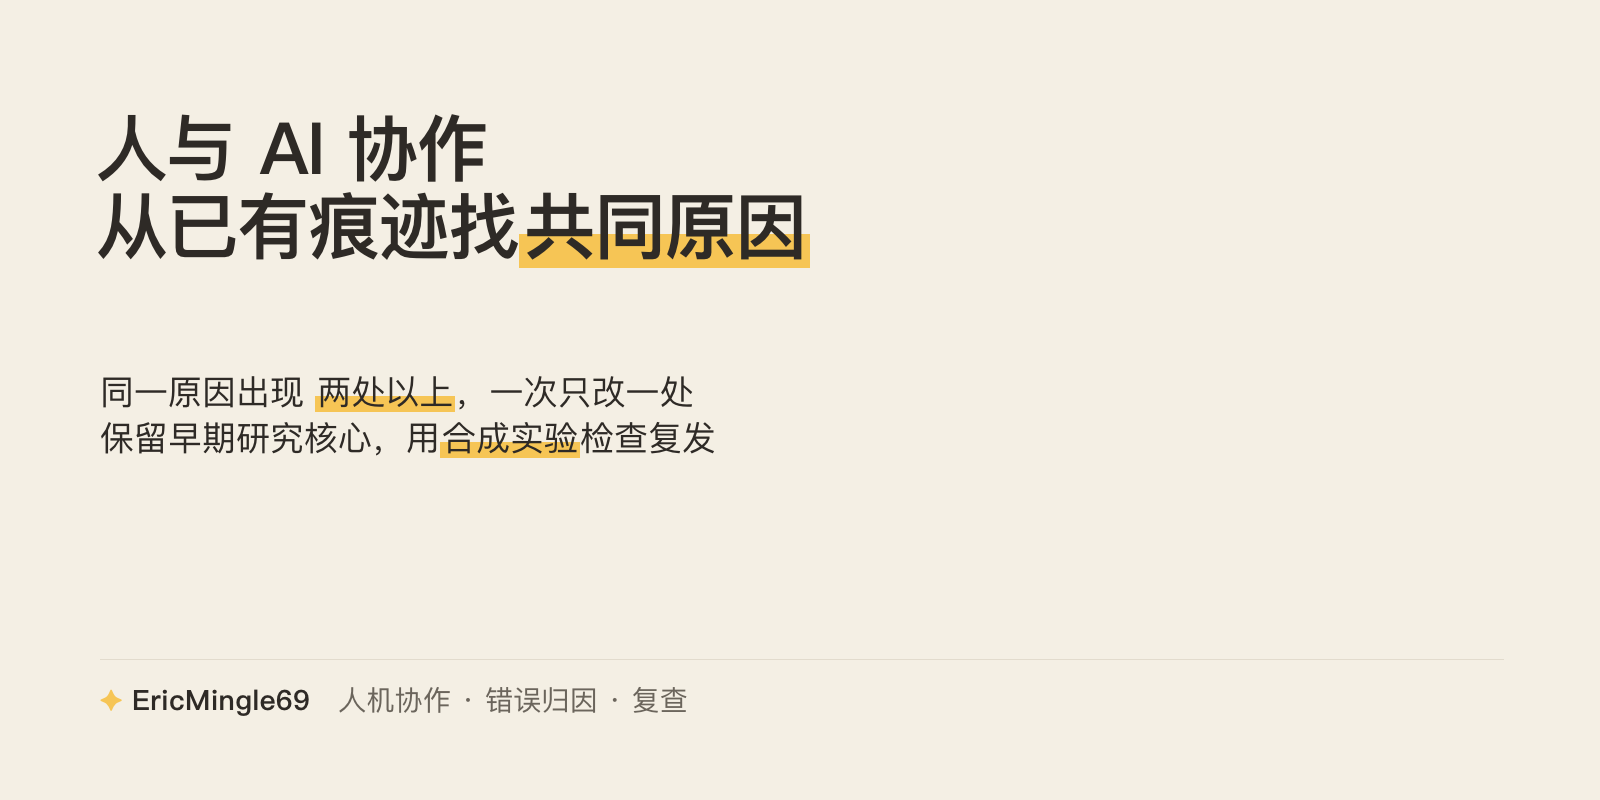
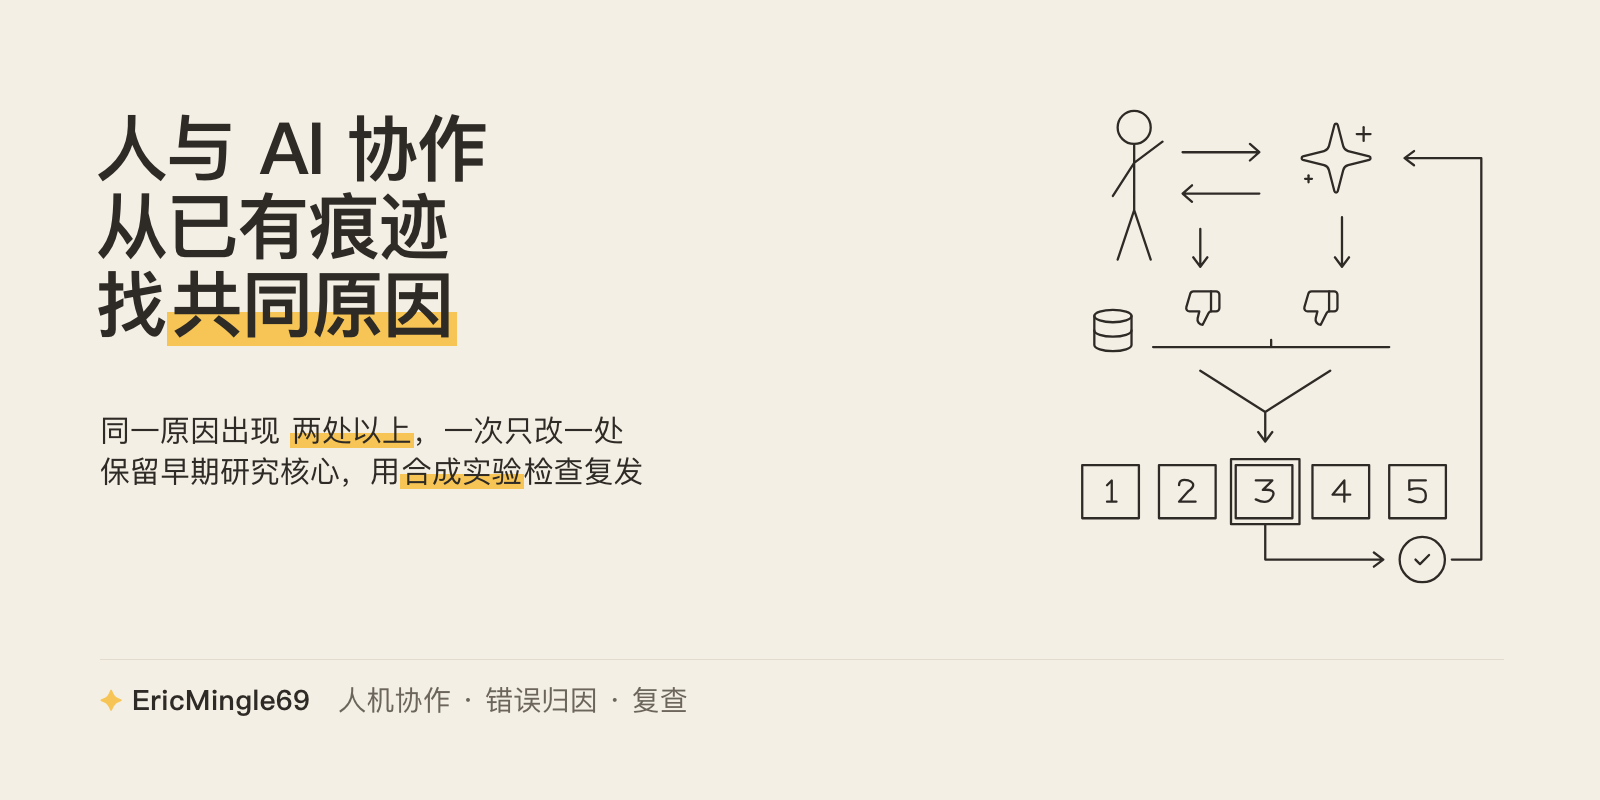
docs: add workflow cover illustration and foreground five-step method

diff --git a/scripts/publication_check.py b/scripts/publication_check.py
@@ -24,7 +24,7 @@ from urllib.parse import parse_qsl, urlsplit
 MANIFEST = "PUBLIC-FILES.json"
 CONFIG = "PUBLICATION.toml"
 # Reviewed, generated covers only; other binary files remain forbidden.
[2 lines of base64/hex data omitted]
 MAX_FILES = 3000
 MAX_BYTES = 2_000_000
 DENIED_DIRS = frozenset({

diff --git a/README.en.md b/README.en.md
@@ -20,7 +20,13 @@ This project examines recurring corrections in human–AI work: group existing t
 
 ## Main features
 
-The HCD event protocol stores its ledger through the Python standard-library SQLite interface<sup>[[1]](#references)</sup>。
+No extra logging; the workflow uses the traces that already exist:
+
+1. **Gather existing traces**: commits, conversations, review comments.
+2. **Group by shared cause**: only problems whose cause shows up in two or more places.
+3. **Compare with what works well**: find the step where it falls short.
+4. **Change one thing at a time**: small enough to tell whether it was that change.
+5. **Look again later**: if the same kind of problem comes back, the change did not work.
 
 <details>
 <summary>Public capabilities and boundaries</summary>
@@ -62,22 +68,16 @@ For library use, call `hcd.record(event, data_root)` and `hcd.report(data_root)`
 
 ## Design and principles
 
+The HCD event protocol stores its ledger through the Python standard-library SQLite interface<sup>[[1]](#references)</sup>.
+
 <picture>
 <source media="(prefers-color-scheme: dark)" srcset="readme-assets/architecture-dark.svg">
 <img src="readme-assets/architecture-light.svg" alt="Synthetic events to SQLite ledger to injected runner to recurrence report" width="100%">
 </picture>
 
-No extra logging; the workflow uses the traces that already exist:
+**Method change**: the earlier approach recorded each correction and then clustered the records by shared cause. Per-correction logging added work and missed entries; the current method analyses existing commits, conversations and reviews. Material coverage and operating cost have no quantitative comparison.
 
-1. **Gather existing traces**: commits, conversations, review comments.
-2. **Group by shared cause**: only problems whose cause shows up in two or more places.
-3. **Compare with what works well**: find the step where it falls short.
-4. **Change one thing at a time**: small enough to tell whether it was that change.
-5. **Look again later**: if the same kind of problem comes back, the change did not work.
-
-**From logging every correction to analysing the traces that are already there.** The earlier approach recorded each correction and cluster them. Logging turned out to be a burden of its own, and something always got missed. Commits, conversations and reviews are kept anyway; reading them directly gives fuller material without interrupting the work.
-
-**A recent finding**: several rounds of rework had one cause — the task said how to do it, but not who it was for or what was out of scope. The workflow added a three-line check before starting. The follow-up criterion is set; the result is not in yet and will be added here.
+**Intervention awaiting review**: rework was attributed to task descriptions that omitted the intended audience and scope constraints. A three-line check was added before starting work. Follow-up criteria are defined; no intervention result is available.
 
 The research core of the earlier approach (per-correction logging, cross-task clustering, checking for recurrence after an intervention). The `hcd` module in the code (Human Correction Distance) was the part that scored corrections at the time; the current workflow retains it only for reference. Only source code, synthetic examples and documentation are here — no real conversations, logs or task records.
 
@@ -103,6 +103,8 @@ Internal package `1.0.0` and MCP interface `1.0.3` are implementation lineage, n
 
 ## Acknowledgements
 
+Cover icons use Lucide geometry; see the [icon license](readme-assets/LUCIDE-LICENSE.txt).
+
 Acknowledgements to the Python and SQLite open-source projects for the runtime and ledger storage.<sup>[[1]](#references)</sup>
 
 ## References
@@ -123,4 +125,4 @@ Acknowledgements to the Python and SQLite open-source projects for the runtime a
 ---
 
 Maintained by **✦ EricMingle69** · [Ming-Sir-69](https://github.com/Ming-Sir-69)  
-Code, text and figures are released under the [MIT License](LICENSE).
+Code, text and original graphics are released under the [MIT License](LICENSE); Lucide icons retain their [ISC License](readme-assets/LUCIDE-LICENSE.txt).

diff --git a/README.md b/README.md
@@ -20,7 +20,13 @@
 
 ## 主要功能
 
-HCD 事件协议使用 Python 标准库的 SQLite 接口保存账本<sup>[[1]](#参考文献)</sup>。
+不额外登记，直接用平时就留下的痕迹：
+
+1. **汇集已有痕迹**：提交记录、对话原文、评审意见，本来就在。
+2. **归并共同原因**：只看同一个原因在两处以上出现的问题，一次性的不追。
+3. **对照做得好的做法**：找出差在哪一步。
+4. **一次只改一处**：改动小，才看得出是不是这处起了作用。
+5. **回头看是否再犯**：过几天看同类问题还出不出现，出现就说明没改对。
 
 <details>
 <summary>公开能力与边界</summary>
@@ -62,22 +68,16 @@ macOS 的 `/var`、`/tmp` 是软链接；核心拒绝软链接路径组件，上
 
 ## 设计与原理
 
+HCD 事件协议使用 Python 标准库的 SQLite 接口保存账本<sup>[[1]](#参考文献)</sup>。
+
 <picture>
-<source media="(prefers-color-scheme: dark)" srcset="readme-assets/architecture-dark.svg">
-<img src="readme-assets/architecture-light.svg" alt="Synthetic events to SQLite ledger to injected runner to recurrence report" width="100%">
+<source media="(prefers-color-scheme: dark)" srcset="readme-assets/architecture-zh-dark.svg">
+<img src="readme-assets/architecture-zh-light.svg" alt="合成事件 → SQLite 账本 → 注入执行器 → 复发报告" width="100%">
 </picture>
 
-不额外登记，直接用平时就留下的痕迹：
+**方法变化**：早期方案逐次登记纠正，再聚类寻找共同原因。逐次登记存在额外操作负担与漏记问题；当前方法直接分析已有提交、对话与评审痕迹。材料覆盖与操作成本尚无量化对照。
 
-1. **汇集已有痕迹**：提交记录、对话原文、评审意见，本来就在。
-2. **归并共同原因**：只看同一个原因在两处以上出现的问题，一次性的不追。
-3. **对照做得好的做法**：找出差在哪一步。
-4. **一次只改一处**：改动小，才看得出是不是这处起了作用。
-5. **回头看是否再犯**：过几天看同类问题还出不出现，出现就说明没改对。
-
-**从“每次纠正都登记”改成“直接分析已有痕迹”。** 一开始早期方案要求 AI 把每次纠正都记下来，再聚类找共同原因。后来发现登记本身就是负担，而且总有漏记；提交、对话、评审意见本来就留着，直接从里面找，材料更全，也不打断干活。
-
-**最近一次发现**：好几次返工是同一个原因——任务只写了怎么做，没写给谁用、不做什么。于是在开工前加了三行确认。复查标准定好了，结果还没出来，有了再补在这里。
+**待复查的干预**：已有返工被归因于任务说明缺少使用对象与范围约束，因此在开工前增加三行确认。复查标准已设定，尚无干预结果。
 
 这里放的是早期做法（逐次登记纠正、跨任务聚类、看干预后是否复发）的研究核心。代码里的 `hcd` 模块（Human Correction Distance，纠偏距离）是当时用来衡量纠正程度的部分，当前工作方式已不再使用它，留作参考。仓库只含源码、从零合成的示例和文档，没有任何真实对话、日志或任务记录。
 
@@ -101,6 +101,8 @@ macOS 的 `/var`、`/tmp` 是软链接；核心拒绝软链接路径组件，上
 
 ## 致谢
 
+封面图标沿用 Lucide 几何，许可见 [图标许可](readme-assets/LUCIDE-LICENSE.txt)。
+
 感谢 Python 与 SQLite 开源项目提供运行环境及账本存储基础。<sup>[[1]](#参考文献)</sup>
 
 ## 参考文献
@@ -121,4 +123,4 @@ macOS 的 `/var`、`/tmp` 是软链接；核心拒绝软链接路径组件，上
 ---
 
 文档维护：**✦ EricMingle69** · [Ming-Sir-69](https://github.com/Ming-Sir-69)  
-代码、文字与图以 [MIT 许可](LICENSE) 发布。
+代码、文字与自有图形以 [MIT 许可](LICENSE) 发布；Lucide 图标沿用 [ISC 许可](readme-assets/LUCIDE-LICENSE.txt)。

diff --git a/docs/evolution/0.1.2.md b/docs/evolution/0.1.2.md
@@ -7,7 +7,7 @@ README structure and visual presentation differed between public repositories.
 Runtime interfaces are unchanged. Four generated cover PNGs are permitted by exact path and SHA-256 digest in the publication checker.
 
 ## Decisions and alternatives
-Use generated raster typography and a blank illustration area. Arbitrary PNG support was rejected: changed cover bytes require explicit review and a new digest. Keep MIT attribution for documentation and images.
+Use generated raster typography and a static workflow illustration derived from homepage geometry. Arbitrary PNG support was rejected: changed cover bytes require explicit review and a new digest. Keep MIT attribution for documentation and images.
 
 ## Research hypotheses
 The five-step workflow remains descriptive. No causal improvement or real-world accuracy measurement is introduced.
@@ -17,3 +17,5 @@ Run the synthetic suite and publication check against the base commit. Cover has
 
 ## Next
 Review the facade and pending workflow follow-up separately before release.
+
+Facade review: move the five-step method into main features, state method changes and pending intervention objectively, and localize the architecture illustration. Covers reuse Lucide icon geometry with its ISC notice; runtime behavior is unchanged.

diff --git a/CHANGELOG.md b/CHANGELOG.md
@@ -23,3 +23,5 @@ First public distribution of the bounded research core.
 - Document implementation lineage, concrete research directions, and the public/private boundary.
 
 Actual records, personal runtime/configuration, native collectors, model training, automatic maintenance, live deployment, and cloud/MCP runtime are excluded. There are no earlier public tags or releases of this core. Real-user effectiveness and complete task coverage remain unverified.
+
+Facade review: move the five-step method into main features, state method changes and pending intervention objectively, and localize the architecture illustration. Covers reuse Lucide icon geometry with its ISC notice; runtime behavior is unchanged.
